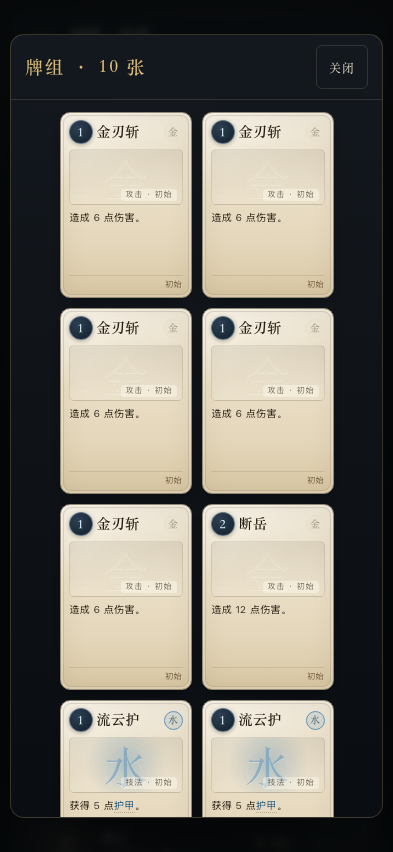
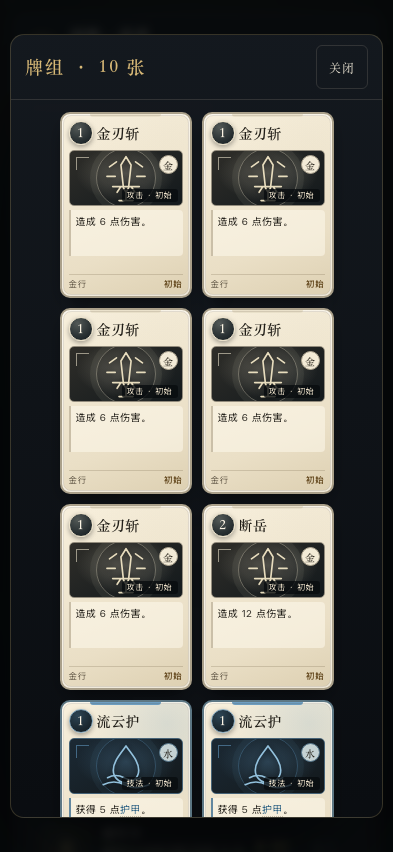
fix ui03

diff --git a/css/style.css b/css/style.css
@@ -549,53 +549,78 @@ button:focus-visible { outline: 2px solid var(--gold); outline-offset: 3px; }
 .card-inner {
   position: absolute; inset: 0; border-radius: 10px; overflow: hidden;
   background:
-    linear-gradient(160deg, rgba(255, 255, 255, 0.5), transparent 34%),
-    radial-gradient(140px 120px at 80% 0%, color-mix(in srgb, var(--el) 20%, transparent), transparent 65%),
-    linear-gradient(180deg, #f3ebd8, #e4d6ba 72%, #d8c7a4);
-  border: 1px solid color-mix(in srgb, var(--el) 42%, #6a604e);
-  box-shadow: 0 7px 18px -8px rgba(0, 0, 0, 0.72), inset 0 0 0 3px rgba(255, 255, 255, 0.16), inset 0 0 26px rgba(120, 92, 42, 0.1);
-  display: flex; flex-direction: column; padding: 7px 8px 6px;
+    radial-gradient(circle at 82% 12%, color-mix(in srgb, var(--el) 18%, transparent), transparent 42%),
+    linear-gradient(160deg, #f7efdc, #eadfc6 70%, #ddd0b2);
+  border: 2px solid color-mix(in srgb, var(--el) 56%, #5b503c);
+  box-shadow: 0 8px 20px -9px rgba(0, 0, 0, 0.78), inset 0 0 0 2px rgba(255, 255, 255, 0.48);
+  display: flex; flex-direction: column; padding: 7px 7px 6px;
+}
+.card-inner::before {
+  content: ""; position: absolute; top: 0; left: 22%; right: 22%; height: 3px;
+  border-radius: 0 0 4px 4px; background: var(--el); opacity: 0.9;
 }
 .card::after {
   content: ""; position: absolute; inset: 3px; border-radius: 8px; pointer-events: none;
-  border: 1px solid rgba(60, 45, 20, 0.16);
+  border: 1px solid rgba(60, 45, 20, 0.13);
 }
 .card-top { display: flex; align-items: center; gap: 4px; position: relative; z-index: 2; }
 .card-cost {
   width: 24px; height: 24px; flex: 0 0 24px; border-radius: 50%; display: flex; align-items: center; justify-content: center;
-  background: radial-gradient(circle at 35% 30%, #2c3f52, #14202b);
-  color: #d9edf7; font-family: var(--serif); font-size: 13px; font-weight: 700;
-  border: 1px solid rgba(197, 225, 240, 0.4); box-shadow: 0 1px 4px rgba(0, 0, 0, 0.3);
+  background: radial-gradient(circle at 35% 25%, color-mix(in srgb, var(--el) 28%, #19252b), #11191d);
+  color: #fbf4e4; font-family: var(--serif); font-size: 14px; font-weight: 700;
+  border: 1px solid color-mix(in srgb, var(--el) 72%, #f1e5ca); box-shadow: 0 2px 5px rgba(0, 0, 0, 0.34);
 }
 .card-cost.discounted { background: radial-gradient(circle at 35% 30%, #356a4b, #163523); color: #c9f0d6; border-color: rgba(111, 191, 139, 0.55); }
 .card-name {
-  flex: 1; font-family: var(--serif); font-size: 14px; font-weight: 700; color: #241d12;
+  flex: 1; min-width: 0; font-family: var(--serif); font-size: 14px; font-weight: 700; color: #211e18;
   letter-spacing: 0.03em; white-space: nowrap; overflow: hidden; text-overflow: ellipsis;
 }
+.card-up-mark {
+  position: absolute; z-index: 2; top: 4px; left: 4px; display: grid; place-items: center; width: 17px; height: 17px;
+  border-radius: 4px; background: #725827; color: #fff5d7; font: 11px var(--serif);
+  box-shadow: 0 1px 3px #0005;
+}
 .card-elem {
-  width: 19px; height: 19px; flex: 0 0 19px; border-radius: 50%; display: flex; align-items: center; justify-content: center;
-  border: 1px solid var(--el); color: color-mix(in srgb, var(--el) 60%, #2a2318);
-  font-family: var(--serif); font-size: 10px; background: color-mix(in srgb, var(--el) 16%, transparent);
+  position: absolute; z-index: 2; top: 4px; right: 4px; width: 19px; height: 19px; border-radius: 50%; display: flex; align-items: center; justify-content: center;
+  border: 1px solid color-mix(in srgb, var(--el) 64%, #443b2d); color: #242018;
+  font-family: var(--serif); font-size: 10px; background: color-mix(in srgb, var(--el) 34%, #f9f1df);
 }
 .card-art {
   position: relative; height: 64px; margin: 5px 0 4px; border-radius: 5px; overflow: hidden;
   background:
-    radial-gradient(circle at 50% 46%, color-mix(in srgb, var(--el) 32%, transparent), transparent 64%),
-    linear-gradient(180deg, rgba(38, 31, 20, 0.08), rgba(255, 255, 255, 0.14));
-  border: 1px solid rgba(74, 58, 30, 0.12);
+    radial-gradient(ellipse at 50% 42%, color-mix(in srgb, var(--el) 28%, transparent), transparent 63%),
+    linear-gradient(150deg, color-mix(in srgb, var(--el-dark) 88%, #101519), #13191c);
+  border: 1px solid color-mix(in srgb, var(--el) 56%, #26231d);
   display: flex; align-items: center; justify-content: center;
 }
-.card-watermark {
-  font-family: var(--serif); font-size: 44px; color: var(--el); opacity: 0.55;
-  text-shadow: 0 1px 0 rgba(255, 255, 255, 0.5), 0 0 18px color-mix(in srgb, var(--el) 40%, transparent);
+.card-art::before {
+  content: ""; position: absolute; width: 58px; height: 58px; border-radius: 50%;
+  border: 1px solid color-mix(in srgb, var(--el) 34%, transparent);
+  box-shadow: 0 0 0 6px color-mix(in srgb, var(--el) 7%, transparent);
+}
+.card-art-icon {
+  position: relative; width: 70px; height: 100%; color: var(--el); opacity: 0.95;
+  filter: drop-shadow(0 1px 3px #000a);
+}
+.card-art-icon.motif-metal { color: #f1e5c5; }
+.card-art-icon.motif-fire { color: #f59469; }
+.card-art-icon.motif-earth { color: #edc982; }
+.card-art-icon.motif-water { color: #99c9e5; }
+.card-art-icon.motif-wood { color: #9edab2; }
+.card-art-icon.motif-none { color: #d6d0c4; }
+.card-art::after {
+  content: ""; position: absolute; left: 6px; top: 6px; width: 12px; height: 12px;
+  border-left: 1px solid color-mix(in srgb, var(--el) 60%, transparent);
+  border-top: 1px solid color-mix(in srgb, var(--el) 60%, transparent);
 }
 .card-type {
-  position: absolute; right: 5px; bottom: 3px; font-size: 8px; color: rgba(48, 39, 24, 0.6);
-  letter-spacing: 0.08em; background: rgba(255, 250, 238, 0.45); padding: 0 4px; border-radius: 3px;
+  position: absolute; right: 4px; bottom: 3px; font-size: 8px; color: #f6ead2;
+  letter-spacing: 0.06em; background: rgba(8, 12, 14, 0.78); padding: 1px 5px; border-radius: 3px;
 }
 .card-text {
-  flex: 1; font-size: 10.5px; line-height: 1.4; color: #342b1d; letter-spacing: 0.01em;
-  overflow: hidden; padding: 1px 1px 2px;
+  flex: 1; min-height: 0; font-size: 11.2px; line-height: 1.43; color: #27241e; letter-spacing: 0.01em;
+  overflow: hidden; padding: 4px 5px 2px; border-left: 2px solid color-mix(in srgb, var(--el) 75%, #6f6048);
+  background: rgba(255, 251, 240, 0.5); border-radius: 0 4px 4px 0;
 }
 .card-live { display: flex; gap: 4px; flex-wrap: wrap; min-height: 17px; align-items: center; margin-bottom: 1px; }
 .live { font-size: 9px; padding: 0 5px; border-radius: 4px; line-height: 15px; font-weight: 700; letter-spacing: 0.02em; }
@@ -607,15 +632,16 @@ button:focus-visible { outline: 2px solid var(--gold); outline-offset: 3px; }
 .live-heal { background: rgba(55, 112, 78, 0.88); color: #e2f8e9; }
 .live-draw { background: rgba(70, 86, 120, 0.88); color: #e4ebff; }
 .card-foot {
-  display: flex; align-items: center; justify-content: space-between; font-size: 8px;
-  color: rgba(60, 48, 29, 0.55); border-top: 1px solid rgba(80, 62, 32, 0.12); padding-top: 3px;
+  display: flex; align-items: center; justify-content: space-between; font-size: 8.5px;
+  color: #625847; border-top: 1px solid rgba(80, 62, 32, 0.18); padding-top: 3px;
   letter-spacing: 0.06em;
 }
-.card-rarity { color: rgba(88, 66, 30, 0.75); }
-.card.rarity-uncommon .card-inner { border-color: color-mix(in srgb, var(--el) 46%, #3c7a58); }
-.card.rarity-rare .card-inner { border-color: #a9803e; box-shadow: 0 7px 18px -8px rgba(0, 0, 0, 0.72), inset 0 0 0 3px rgba(255, 255, 255, 0.16), inset 0 0 30px rgba(190, 145, 55, 0.22); }
-.card.upgraded .card-inner { background: linear-gradient(180deg, #f8f0d9, #e9d9b4 72%, #dcc89e); }
-.card.upgraded .card-name { color: #2b4a2c; }
+.card-rarity { color: #6e542b; font-weight: 700; }
+.card.rarity-uncommon .card-inner { border-color: color-mix(in srgb, var(--el) 62%, #6e6a53); }
+.card.rarity-rare .card-inner { border-color: color-mix(in srgb, var(--el) 68%, #d2a855); box-shadow: 0 7px 18px -8px rgba(0, 0, 0, 0.72), inset 0 0 0 2px rgba(255, 247, 218, 0.65), inset 0 0 25px rgba(190, 145, 55, 0.14); }
+.card.rarity-rare .card-rarity { color: #87621f; }
+.card.upgraded .card-inner { background: linear-gradient(165deg, #fff5dc, #e9d8af 75%, #d8bd80); }
+.card.upgraded .card-name { color: #4f3c20; }
 .card.locked { opacity: 0.8; }
 .card.in-hand { cursor: pointer; transform: translateY(var(--lift, 0)) rotate(var(--rot, 0deg)); transform-origin: 50% 100%; }
 @media (min-width: 601px) {
@@ -673,18 +699,21 @@ button:focus-visible { outline: 2px solid var(--gold); outline-offset: 3px; }
 .reward-option-list { display: flex; flex-direction: column; gap: 10px; }
 .reward-option {
   display: flex; flex-direction: column; gap: 6px; width: 100%; min-height: 112px;
-  border: 1px solid var(--line-strong); border-radius: 10px; padding: 12px 14px;
-  background: rgba(236, 226, 203, 0.04); color: var(--text); text-align: left;
-  font: inherit; cursor: pointer;
+  position: relative; overflow: hidden; border: 1px solid color-mix(in srgb, var(--el) 46%, #4b4840);
+  border-radius: 10px; padding: 12px 14px 12px 18px;
+  background: radial-gradient(circle at 100% 0, color-mix(in srgb, var(--el) 12%, transparent), transparent 55%), #151a1d;
+  color: var(--text); text-align: left; font: inherit; cursor: pointer;
 }
+.reward-option::before { content: ""; position: absolute; top: 0; bottom: 0; left: 0; width: 4px; background: var(--el); }
 .reward-option-top { display: flex; align-items: center; gap: 9px; }
 .reward-option-cost {
   display: inline-flex; align-items: center; justify-content: center; flex: none;
-  width: 28px; height: 28px; border: 1px solid var(--gold-2); border-radius: 50%;
-  color: var(--gold); font-family: var(--serif); font-size: 16px;
+  width: 28px; height: 28px; border: 1px solid var(--el); border-radius: 50%;
+  background: var(--el-dark); color: #fff6e2; font-family: var(--serif); font-size: 16px;
 }
 .reward-option-name { flex: 1; min-width: 0; color: #f1e8d4; font-family: var(--serif); font-size: 17px; font-weight: 600; }
-.reward-option-meta { color: var(--gold); font-size: 11px; }
+.reward-option-seal { flex: none; width: 26px; height: 26px; display: grid; place-items: center; border-radius: 6px; border: 1px solid var(--el); color: #f8ead0; background: var(--el-dark); font: 15px var(--serif); }
+.reward-option-meta { color: color-mix(in srgb, var(--el) 62%, #f3dfb1); font-size: 11px; }
 .reward-option-text { color: var(--text); font-size: 13px; line-height: 1.55; white-space: pre-line; overflow-wrap: anywhere; }
 .reward-option-cta { align-self: flex-end; color: var(--gold); font-size: 11px; }
 .reward-option.chosen { border-color: var(--gold); background: rgba(216, 185, 119, 0.1); cursor: default; }
@@ -870,7 +899,7 @@ button:focus-visible { outline: 2px solid var(--gold); outline-offset: 3px; }
 .detail-glyph { width: 58px; height: 58px; display: grid; place-items: center; margin-bottom: 12px; border: 1px solid var(--line-strong); border-radius: 12px; color: var(--gold); font: 28px var(--serif); }
 .detail-text, .card-detail-text { margin: 14px 0; color: var(--text); font-size: 16px; line-height: 1.75; white-space: normal; }
 .card-detail-text { font-size: 18px; color: #eee3ce; }
-.card-current-label { margin-bottom: 10px; color: var(--muted); font-size: 12px; letter-spacing: 0.08em; }
+.card-current-label { margin-bottom: 10px; padding-left: 9px; border-left: 3px solid var(--el); color: #d8d0bf; font-size: 12px; letter-spacing: 0.08em; }
 .card-upgrade-preview { margin-top: 18px; padding: 14px 16px; border: 1px solid rgba(216, 185, 119, 0.35); border-radius: 10px; background: rgba(216, 185, 119, 0.07); }
 .card-upgrade-head { display: flex; align-items: center; justify-content: space-between; gap: 12px; color: var(--gold); font-family: var(--serif); font-size: 14px; }
 .card-upgrade-head b { font-size: 16px; }
@@ -1113,7 +1142,7 @@ body.zhoutian-flash::after {
   .hand::-webkit-scrollbar { display: none; }
   .hand .card { width: 116px; height: 162px; scroll-snap-align: center; }
   .hand .card-art { height: 46px; margin: 4px 0 3px; }
-  .hand .card-watermark { font-size: 32px; }
+  .hand .card-art-icon { width: 54px; }
   .hand .card-name { font-size: 13px; }
   .hand .card-text { font-size: 11px; line-height: 1.35; }
   .hand .card-type { font-size: 8px; }

diff --git a/js/ui.js b/js/ui.js
@@ -18,6 +18,14 @@
     alchemist: '叠毒之后靠灼烧与回春拖长战线，别急着和敌人换血。',
     monk: '留甲反伤，用土生金接攻击；护甲保留让你更敢卖血。'
   };
+  const CARD_MOTIFS = {
+    wood: '<path d="M49 70V19M49 47C32 45 22 36 18 25M49 38C64 35 75 25 79 13M49 58C66 57 77 48 82 38"/><path d="M18 25c4-12 14-15 20-11-1 10-9 15-20 11Zm61-12c-12-3-19 2-20 12 10 4 18-1 20-12Zm3 25c-11-4-19 0-22 9 9 6 18 2 22-9Z"/>',
+    fire: '<path d="M49 72C27 69 21 54 29 40c1 11 8 12 10 9-5-13 5-22 12-39 4 14 1 20 10 28 3-7 4-12 3-18 20 22 17 48-15 52Z"/><path d="M50 67c-8-2-11-9-7-16 1 5 4 6 6 3 0-5 4-10 7-14 0 7 7 12 4 20-2 5-5 7-10 7Z"/>',
+    earth: '<path d="M9 69 33 32l12 16L60 17l31 52H9Z"/><path d="m24 46 9-14 7 9m10-12 10-12 11 19M13 74h74"/>',
+    metal: '<path d="m50 9 8 13-4 36-4 7-4-7-4-36 8-13ZM29 56h42M42 56l-6 9m22-9 6 9M50 65v13M39 78h22"/><path d="m24 25 11-8m30 0 11 8M20 40h13m34 0h13"/>',
+    water: '<path d="M50 11c-9 13-20 24-20 38a20 20 0 0 0 40 0C70 35 59 24 50 11Z"/><path d="M21 61c9-5 17-5 26 0s17 5 26 0m-59 11c12-6 22-6 34 0s22 6 38 0"/>',
+    none: '<circle cx="50" cy="43" r="25"/><path d="M50 11v64M18 43h64M27 20l46 46M73 20 27 66"/>'
+  };
 
   function esc(s) {
     return String(s == null ? '' : s).replace(/[&<>"']/g, c => ({ '&': '&amp;', '<': '&lt;', '>': '&gt;', '"': '&quot;', "'": '&#39;' }[c]));
@@ -63,6 +71,10 @@
   function relicById(id) { return D.relicMap[id]; }
   function potionById(id) { return D.potionMap[id]; }
   function cardData(inst) { return E.getCardData(inst); }
+  function cardArt(element) {
+    const motif = CARD_MOTIFS[element] || CARD_MOTIFS.none;
+    return `<svg class="card-art-icon motif-${element}" viewBox="0 0 100 85" fill="none" stroke="currentColor" stroke-width="2.6" stroke-linecap="round" stroke-linejoin="round" aria-hidden="true" focusable="false">${motif}</svg>`;
+  }
 
   function cardHTML(inst, opts) {
     opts = opts || {};
@@ -71,6 +83,7 @@
     const mode = opts.mode || 'static';
     const el = elem(data.element);
     const upgraded = !!inst.up;
+    const faceName = D.cardMap[inst.id] ? D.cardMap[inst.id].name : data.name;
     const isHand = mode === 'hand';
     const canPlay = isHand ? E.canPlayCard(UI.state, opts.index) : null;
     const cost = canPlay && canPlay.ok ? canPlay.cost : data.cost;
@@ -98,7 +111,7 @@
     if (opts.sold) classes.push('sold');
     if (opts.selectable) classes.push('selectable');
     if (opts.selected) classes.push('picked');
-    const style = isHand ? `--rot:${opts.rot || 0}deg;--lift:${opts.lift || 0}px;margin-left:${opts.marginLeft || 0}px` : '';
+    const style = `--el:${el.color};--el-dark:${el.dark};${isHand ? `--rot:${opts.rot || 0}deg;--lift:${opts.lift || 0}px;margin-left:${opts.marginLeft || 0}px` : ''}`;
     const tag = opts.tag || (isHand || opts.inspect ? 'button' : 'div');
     const actionAttr = isHand ? `data-action="play-card" data-index="${opts.index}"` :
       (opts.pickUid ? `data-action="pick-card" data-uid="${esc(opts.pickUid)}"` :
@@ -110,17 +123,18 @@
       <div class="card-inner">
         <div class="card-top">
           <span class="card-cost ${discounted ? 'discounted' : ''}">${cost}</span>
-          <span class="card-name">${esc(data.name)}</span>
-          <span class="card-elem" style="--el:${el.color}">${esc(el.glyph)}</span>
+          <span class="card-name">${esc(faceName)}</span>
         </div>
         <div class="card-art" style="--el:${el.color};--el-dark:${el.dark}">
-          <span class="card-watermark">${esc(el.glyph)}</span>
+          ${upgraded ? '<span class="card-up-mark" aria-label="已升级">悟</span>' : ''}
+          <span class="card-elem" style="--el:${el.color}">${esc(el.glyph)}</span>
+          ${cardArt(data.element)}
           <span class="card-type">${TYPE_NAMES[data.type] || ''} · ${RARITY_LABEL[data.rarity] || ''}</span>
         </div>
         <div class="card-text">${formatText(data.text)}</div>
         <div class="card-live">${live.join('')}</div>
         <div class="card-foot">
-          <span>${data.exhaust ? '消耗' : ''}${data.retain ? ' 保留' : ''}</span>
+          <span>${data.exhaust ? '消耗' : ''}${data.retain ? ' 保留' : ''}${!data.exhaust && !data.retain ? el.name + '行' : ''}</span>
           <span class="card-rarity">${RARITY_LABEL[data.rarity] || ''}</span>
         </div>
       </div>`;
@@ -1242,8 +1256,9 @@
         const data = cardData(inst);
         const tag = r.cardTaken ? 'div' : 'button';
         const traits = [data.exhaust ? '消耗' : '', data.retain ? '保留' : '', inst.up ? '已悟' : ''].filter(Boolean);
-        return `<${tag} class="reward-option ${r.cardTaken && r.selected === i ? 'chosen' : ''} ${r.cardTaken && r.selected !== i ? 'faded' : ''}" ${r.cardTaken ? '' : `type="button" data-action="take-card" data-index="${i}" data-confirm="1"`}>
-          <span class="reward-option-top"><span class="reward-option-cost">${data.cost}</span><span class="reward-option-name">${esc(data.name)}</span>${elemBadge(data.element, elem(data.element).name + '行')}</span>
+        const el = elem(data.element);
+        return `<${tag} class="reward-option el-${data.element} ${r.cardTaken && r.selected === i ? 'chosen' : ''} ${r.cardTaken && r.selected !== i ? 'faded' : ''}" style="--el:${el.color};--el-dark:${el.dark}" ${r.cardTaken ? '' : `type="button" data-action="take-card" data-index="${i}" data-confirm="1"`}>
+          <span class="reward-option-top"><span class="reward-option-cost">${data.cost}</span><span class="reward-option-name">${esc(data.name)}</span><span class="reward-option-seal">${esc(el.glyph)}</span></span>
           <span class="reward-option-meta">${TYPE_NAMES[data.type] || ''} · ${RARITY_LABEL[data.rarity] || ''}${traits.length ? ` · ${traits.join(' · ')}` : ''}</span>
           <span class="reward-option-text">${esc(data.text)}</span>
           <span class="reward-option-cta">${r.cardTaken ? r.selected === i ? '已领取' : '' : '查看详情并领取 →'}</span>
@@ -1509,7 +1524,7 @@
             p.linked ? `连携 ${p.chainAfter}` : ''].filter(Boolean) : [];
           if (values.length) preview = `<div class="detail-note">${values.map(esc).join(' · ')}</div>`;
         }
-        body = `<div class="card-current-label">${other ? d.up ? '已升级 · 当前效果' : '升级前 · 当前效果' : '当前效果'}</div>
+        body = `<div class="card-current-label" style="--el:${elem(data.element).color}">${other ? d.up ? '已升级 · 当前效果' : '升级前 · 当前效果' : '当前效果'}</div>
           <div class="detail-meta">${elemBadge(data.element, elem(data.element).name + '行')}<span>${TYPE_NAMES[data.type] || ''}</span><span>${RARITY_LABEL[data.rarity] || ''}</span><span>灵气 ${data.cost}</span>${d.up ? '<span>已悟</span>' : ''}</div>
           <p class="card-detail-text">${formatText(data.text)}</p>
           ${traits.length ? `<p class="detail-note">关键词：${traits.join(' · ')}</p>` : ''}${preview}

diff --git a/README.md b/README.md
@@ -25,6 +25,7 @@
 - 点按手牌或丹药，先查看完整说明，再确认出牌或使用；点按角色、敌人、遗物也可查看详情。
 - 战斗中的增益与负面状态可点开查看当前层数、完整效果和结算时机。
 - 卡牌详情可对照升级前后效果；休整点参悟会先展示差异，再确认升级。
+- 五行卡面采用不同纹样与边框色，升级牌有「悟」印记；奖励选牌沿用同一视觉标识。
 - 桌面奖励页可先查看效果与升级再选牌；手牌悬停或键盘聚焦时可查看升级提示。
 - 图鉴增加角色与丹药分类；已识卡牌、敌人和遗物均可点开查看完整资料。
 - 地图页 HUD 折成两行，牌组 / 遗物 / 设置始终可点，地图节点放大到 64px。
@@ -132,7 +133,7 @@
 ## 开发与测试
 
 ```bash
-# 规则与手机交互测试（52 项）
+# 规则与手机交互测试（55 项）
 npm test
 
 # 自动模拟对局：600 局，默认天劫 0
